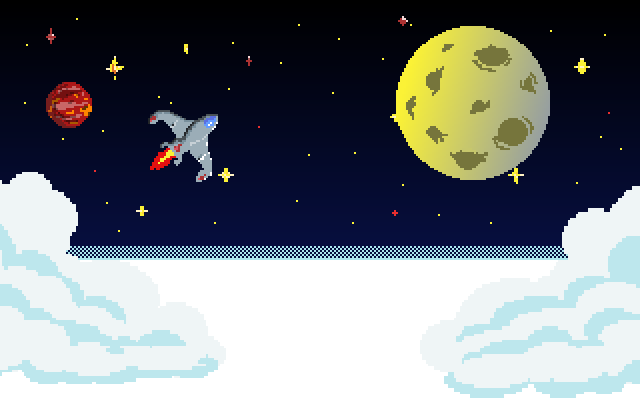
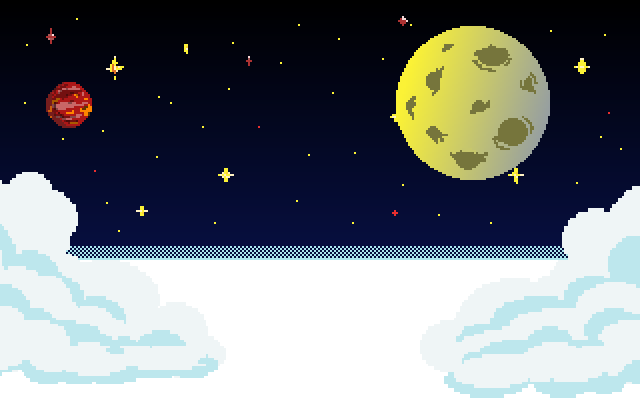
update images and add spaceship animation

diff --git a/src/index.css b/src/index.css
@@ -42,3 +42,29 @@ button {
   height: 50px;
   text-decoration: none;
 }
+
+#spaceship {
+  position: absolute;
+  width: 3rem;
+  top: 0;
+  left: 50%;
+  animation: comeAndGo 30s ease-in-out infinite;
+}
+
+@keyframes comeAndGo {
+  0% {
+    transform: translateX(100vw) rotate(-90deg);
+  }
+
+  50% {
+    transform: translateX(-100vw) rotate(-90deg);
+  }
+
+  50.1% {
+    transform: translateX(-100vw) rotate(90deg);
+  }
+
+  100% {
+    transform: translateX(100vw) rotate(90deg);
+  }
+}

diff --git a/src/components/TalkingContainer.css b/src/components/TalkingContainer.css
@@ -4,10 +4,13 @@
     justify-content: space-between;
     align-items: center;
     width: 90%;
-    background-color: rgb(236, 161, 103);
+    background-color: #244861;
+    color: white;
     padding: 1.5rem;
     margin: 0;
     border: 5px solid black;
+    border-top: 5px solid #436883;
+    border-right: 5px solid #233542;
     animation: slideInFromLeft 300ms ease-in-out forwards;
     position: absolute;
     font-size: 0.9rem;

diff --git a/src/App.jsx b/src/App.jsx
@@ -6,12 +6,14 @@ import Tools from './components/Tools'
 import Footer from './components/Footer'
 import TalkingContainer from './components/TalkingContainer'
 import info from './info.json'
+import spaceShip from './assets/spaceship.webp'
 
 function App() {
 
   return (
     <>
       <div id='space'></div>
+      <img id='spaceship' src={spaceShip} alt="spaceship" />
       <Hero />
 
       <Routes>
